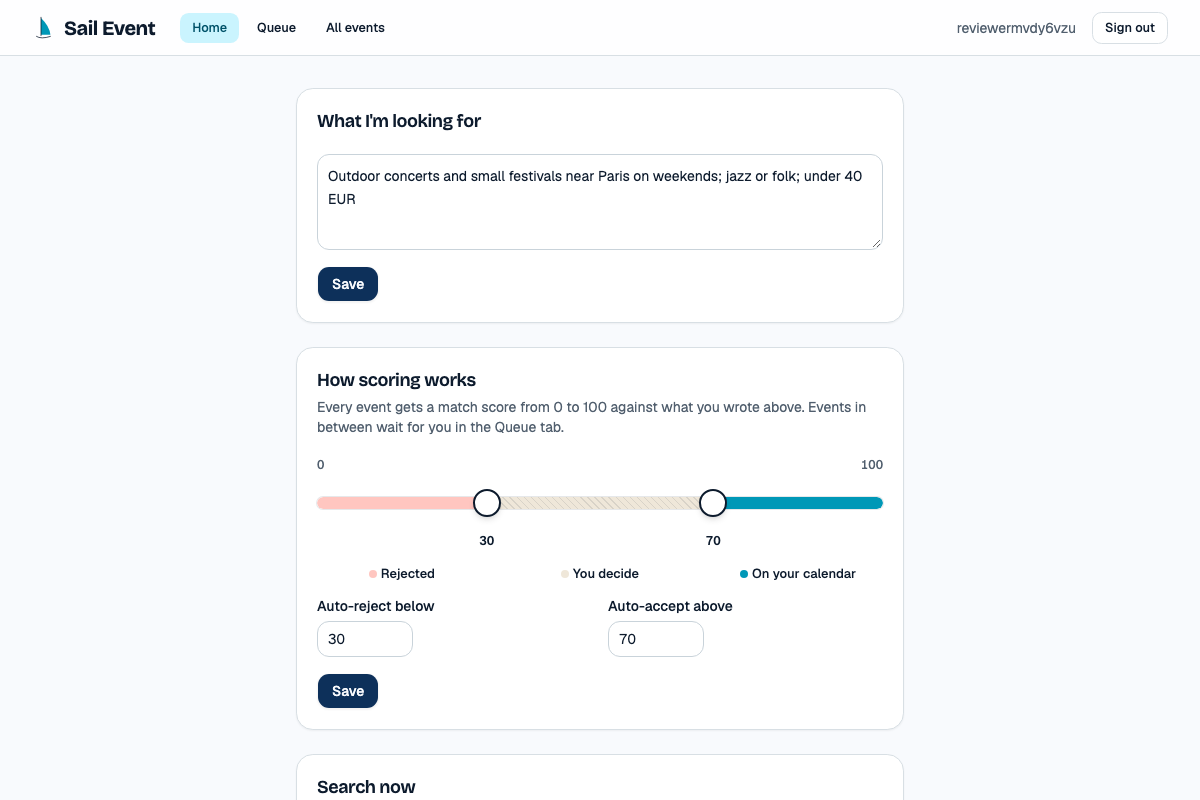
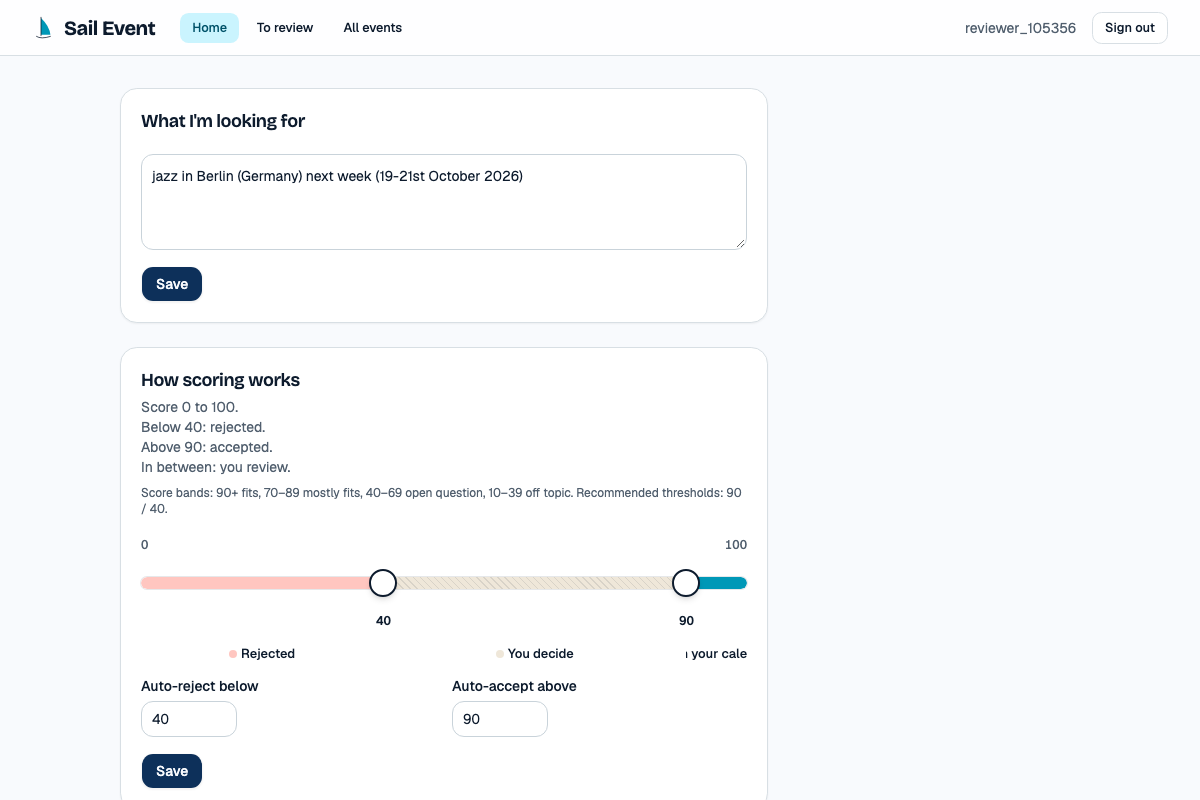
README: screenshots from prod on search v2, thresholds 90/40, adapters, status

diff --git a/README.md b/README.md
@@ -25,7 +25,7 @@ Final project for the [DataTalksClub AI Dev Tools Zoomcamp 2026](https://github.
                                                                │
                               ┌────────────────────────────────┼─────────────────────┐
                               ▼                                ▼                     ▼
-                         score > 70                      30 ≤ score ≤ 70        score < 30
+                         score > 90                      40 ≤ score ≤ 90        score < 40
                      ┌────────────────┐               ┌────────────────┐    ┌────────────────┐
                      │ auto-accepted  │               │ queue: you     │    │ auto-rejected  │
                      │ → ICS calendar │ ◀── Accept ── │ Accept/Reject  │    │ never shown    │
@@ -59,7 +59,7 @@ Needs Docker. One command starts the app and its Postgres:
 docker compose up --build
 ```
 
-Open <http://localhost:8000>, log in as **demo / demo**, press **Search now**, then open **Queue**. Locally the search provider and the scorer are fixtures, so results are canned and scores are deterministic: no API keys needed. Port 8000 already taken? `HOST_PORT=8010 docker compose up --build` and open <http://localhost:8010>.
+Open <http://localhost:8000>, log in as **demo / demo**, press **Search now**, then open **To review**. Locally the search provider and the model are fixtures with recorded responses, so results are canned and scores are deterministic: no API keys needed. Port 8000 already taken? `HOST_PORT=8010 docker compose up --build` and open <http://localhost:8010>.
 
 <details>
 <summary>Same journey with curl (no browser)</summary>
@@ -97,7 +97,8 @@ The live deployment is <https://sail-event.onrender.com>. Create your own accoun
                  │         │                (SQLite in local dev)
                  │         └── adapters, chosen by env var:
                  │              SEARCH_PROVIDER = fixture | tavily
-                 │              SCORER          = fake    | claude
+                 │              LLM_PROVIDER    = fake    | openai_compatible (DeepSeek)
+                 │              GUARDRAIL       = none    | lakera
                  ▼
           OpenTelemetry ──▶ collector ──▶ Prometheus + Loki + Tempo ──▶ Grafana
 
@@ -235,6 +236,6 @@ Policy, prompt and limits: [`incident-response/`](incident-response/). Security 
 
 ## Status
 
-- Live and searching hourly with fixture adapters; real web search and model scoring switch on with two API keys on Render ([docs/deployment.md](docs/deployment.md)).
+- Live on real web search (Tavily) and a real model (DeepSeek through an OpenAI-compatible adapter), searching hourly; the screenshots above are from prod. Your criteria text goes to the search engine as written, the model extracts the events and judges each one against your text ([_docs/search-spec.md](_docs/search-spec.md)).
 - Two environments on Render: dev follows main, prod moves only by the promote workflow.
 - Security findings deferred to post-MVP are issues [#33 to #36](https://github.com/alexisdacquay/sail-event/issues?q=is%3Aissue+label%3Apost-mvp).
